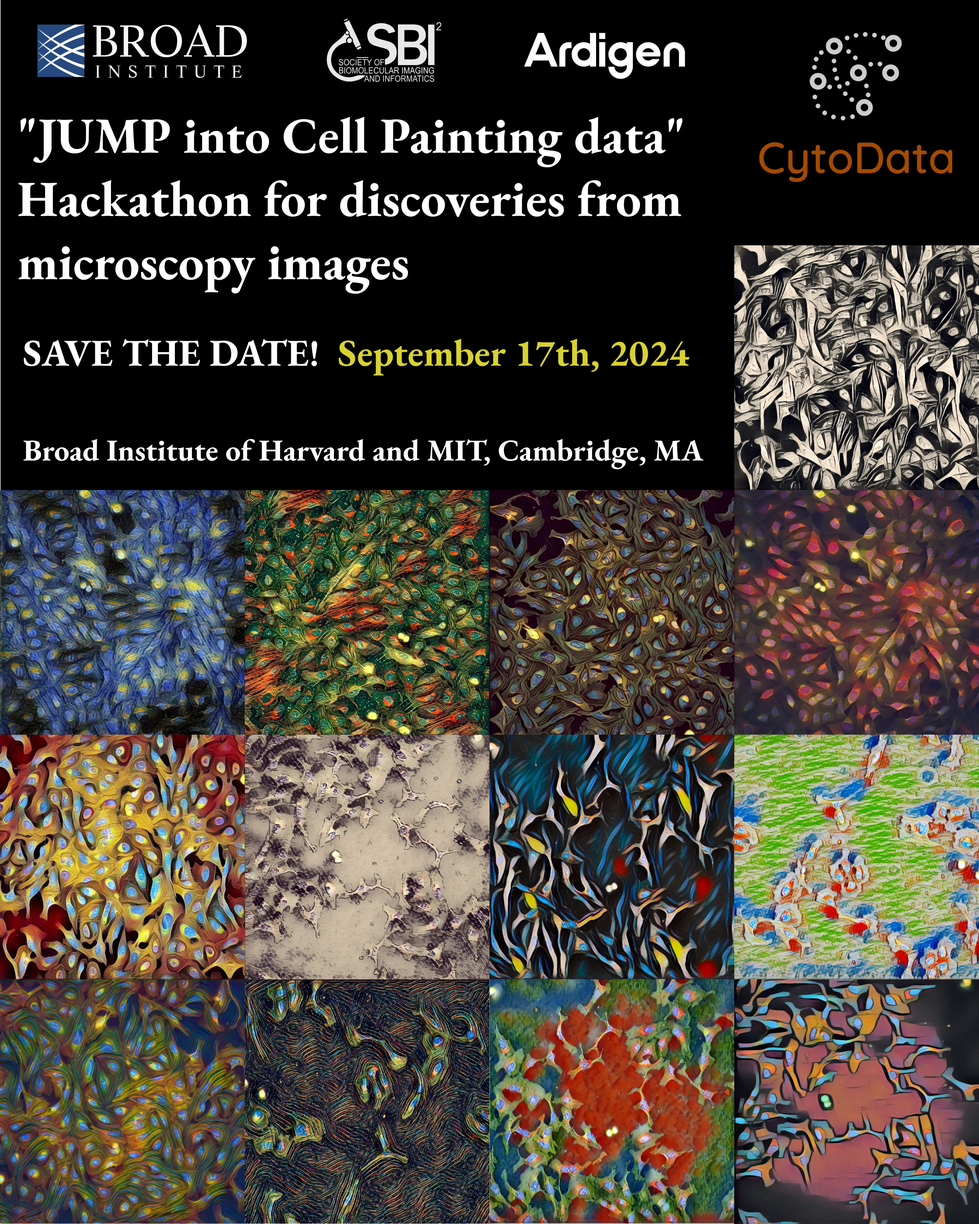
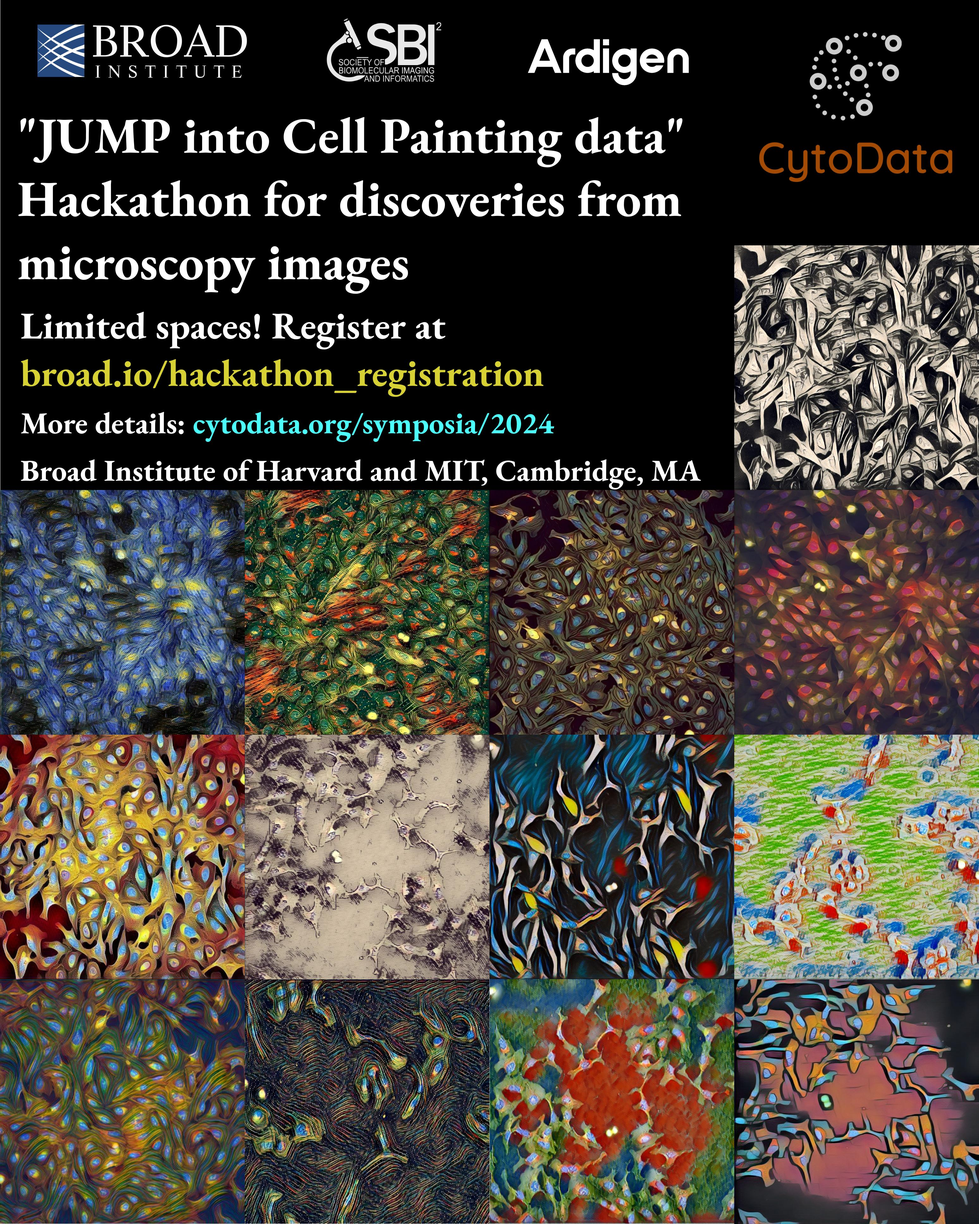
deploy: 15c25c7fb3ce19ccc979b36dba25a626d7c5b940

Changed region(s): [[0.0, 0.25, 0.7132, 0.4062], [0.5271, 0.0312, 0.7132, 0.0938]]

diff --git a/symposia/2024/index.html b/symposia/2024/index.html
@@ -7,7 +7,7 @@
 <meta name="robots" content="index, follow">
 <title>CytoData 2024 - by the CytoData board in collaboration with SBI2 | CytoData Society</title>
 <meta name="keywords" content="">
-<meta name="description" content="Thrilled to announce that this year, CytoData is joining forces with SBI2! You can take part in the traditional CytoData Hackathon on September 17, and join from September 18-20 for an event supercharged in spatial and morphological profiling. Please save the date!">
+<meta name="description" content="CytoData in 2024 We are thrilled to announce that this year, CytoData is joining forces with SBI2! You can take part in the traditional CytoData Hackathon on September 17 (see details below), and join us from September 18-20 for an event supercharged in spatial and morphological profiling. The CytoData board is organizing a colloquium on &ldquo;Image-based profiling of biological systems across scales and modalities&rdquo; on September 18 and the SBI2 society prepared an exciting line-up of workshops and speakers tailored to the bioimaging and analysis community.">
 <meta name="author" content="">
 <link rel="canonical" href="https://www.cytodata.org/symposia/2024/">
 <link crossorigin="anonymous" href="/assets/css/stylesheet.ffe86df2f34692c7a242e28e6511624b62a23eb4d353cf45bce6dad4fa5fe28d.css" integrity="sha256-/&#43;ht8vNGkseiQuKOZRFiS2KiPrTTU89FvOba1Ppf4o0=" rel="preload stylesheet" as="style">
@@ -59,7 +59,7 @@
   
 
 <meta property="og:title" content="CytoData 2024 - by the CytoData board in collaboration with SBI2" />
-<meta property="og:description" content="Thrilled to announce that this year, CytoData is joining forces with SBI2! You can take part in the traditional CytoData Hackathon on September 17, and join from September 18-20 for an event supercharged in spatial and morphological profiling. Please save the date!" />
+<meta property="og:description" content="CytoData in 2024 We are thrilled to announce that this year, CytoData is joining forces with SBI2! You can take part in the traditional CytoData Hackathon on September 17 (see details below), and join us from September 18-20 for an event supercharged in spatial and morphological profiling. The CytoData board is organizing a colloquium on &ldquo;Image-based profiling of biological systems across scales and modalities&rdquo; on September 18 and the SBI2 society prepared an exciting line-up of workshops and speakers tailored to the bioimaging and analysis community." />
 <meta property="og:type" content="article" />
 <meta property="og:url" content="https://www.cytodata.org/symposia/2024/" />
 <meta property="og:image" content="https://www.cytodata.org/symposia/2024/main_files/SBI2.png" /><meta property="article:section" content="symposia" />
@@ -69,7 +69,7 @@
 <meta name="twitter:card" content="summary_large_image" />
 <meta name="twitter:image" content="https://www.cytodata.org/symposia/2024/main_files/SBI2.png" />
 <meta name="twitter:title" content="CytoData 2024 - by the CytoData board in collaboration with SBI2"/>
-<meta name="twitter:description" content="Thrilled to announce that this year, CytoData is joining forces with SBI2! You can take part in the traditional CytoData Hackathon on September 17, and join from September 18-20 for an event supercharged in spatial and morphological profiling. Please save the date!"/>
+<meta name="twitter:description" content="CytoData in 2024 We are thrilled to announce that this year, CytoData is joining forces with SBI2! You can take part in the traditional CytoData Hackathon on September 17 (see details below), and join us from September 18-20 for an event supercharged in spatial and morphological profiling. The CytoData board is organizing a colloquium on &ldquo;Image-based profiling of biological systems across scales and modalities&rdquo; on September 18 and the SBI2 society prepared an exciting line-up of workshops and speakers tailored to the bioimaging and analysis community."/>
 
 
 <script type="application/ld+json">
@@ -98,12 +98,12 @@
   "@type": "BlogPosting",
   "headline": "CytoData 2024 - by the CytoData board in collaboration with SBI2",
   "name": "CytoData 2024 - by the CytoData board in collaboration with SBI2",
-  "description": "Thrilled to announce that this year, CytoData is joining forces with SBI2! You can take part in the traditional CytoData Hackathon on September 17, and join from September 18-20 for an event supercharged in spatial and morphological profiling. Please save the date!",
+  "description": "CytoData in 2024 We are thrilled to announce that this year, CytoData is joining forces with SBI2! You can take part in the traditional CytoData Hackathon on September 17 (see details below), and join us from September 18-20 for an event supercharged in spatial and morphological profiling. The CytoData board is organizing a colloquium on \u0026ldquo;Image-based profiling of biological systems across scales and modalities\u0026rdquo; on September 18 and the SBI2 society prepared an exciting line-up of workshops and speakers tailored to the bioimaging and analysis community.",
   "keywords": [
     
   ],
-  "articleBody": "Thrilled to announce that this year, CytoData is joining forces with SBI2! You can take part in the traditional CytoData Hackathon on September 17, and join from September 18-20 for an event supercharged in spatial and morphological profiling. Please save the date!\n",
-  "wordCount" : "42",
+  "articleBody": "CytoData in 2024 We are thrilled to announce that this year, CytoData is joining forces with SBI2! You can take part in the traditional CytoData Hackathon on September 17 (see details below), and join us from September 18-20 for an event supercharged in spatial and morphological profiling. The CytoData board is organizing a colloquium on “Image-based profiling of biological systems across scales and modalities” on September 18 and the SBI2 society prepared an exciting line-up of workshops and speakers tailored to the bioimaging and analysis community. Registrations and abstract submissions are open.\nCytoData 2024 Hackathon at the Broad Institute Quick overview Registration link Agenda Prizes FAQ What is JUMP? Can I access the data beforehand? Are teams assembled there or can I organize my own team? Do you offer fee waivers? Can I get in touch with other participants and form a team beforehand? More questions? Resources for participants How to get to the Broad Institute? Are there places to eat around? Whereabouts in the building will the event take place? Quick overview The main goal of this event is to bring together biologists and computer scientists to use Morphological Profiling data to gain novel biological insights. You can bring your own question to the event or get together with experts and come up with one there. The idea is for everyone to have fun, learn how to use morphological data to ask/answer biological questions and meet other scientists with similar interests.\nWe strongly encourage biologists to apply, regardless of their expertise in computational methods or their familiarity with the field of morphological profiling.\nThis event is part of the SBI2+Cytodata events.\nRegistration link If you want tho register follow this link. The cost of registration is 20 USD, which aims to cover catering needs.\nDue to space constraints, the number of tickets is limited.\nAgenda The Hackathon will occur on September 17th, 2024 at The Broad Institute’s Merkin Building: 415 Main St, Cambridge, MA 02142.\nTime Agenda 08:30-09:00 Registration and light breakfast 09:00-10:00 Introduction 10:00-12:00 First session 12:00-13:00 Lunch 13:00-15:40 Second session 15:40-16:00 Coffee break 16:00-17:30 Third session 17:30-18:00 Wrap up (5 min) presentations and awards Prizes We will offer two different tracks:\nBest new biological story, or, how can we use JUMP to gain novel biological insight? Best new tool/method, or, how to make JUMP data more accessible/develop a novel processing technique? For each track there will be a 500 USD prize in giftcards for the winning team.\nFAQ What is JUMP? JUMP stands for Joint Undertaking in Morphological Profiling. You can read more about the project here.\nCan I access the data beforehand? The data is available right now, and you can see different ways to explore it here.\nAre teams assembled there or can I organize my own team? Both options are valid! The registration form contains a section to indicate whether you come with a team or not.\nDo you offer fee waivers? We are unable to do so this time, but keep tabs on future online events and workshops.\nCan I get in touch with other participants and form a team beforehand? Yes! The registration form allows you to give consent to share your name, email and interests with the other participants before the event.\nMore questions? Feel free to send an email to amunozgo@broadinstitute.org.\nResources for participants This section will be updated to concentrate details relevant to participants during the Hackathon.\nHow to get to the Broad Institute? See the official getting here webpage.\nAre there places to eat around? We will provide lunch and a light breakfast, but there are plenty of cafes and restaurants in the area.\nWhereabouts in the building will the event take place? The start and lunch events will occur on the sixth floor section that connects 415 Main St. and 75 Ames (the room is called Serengeti). For the hacking sessions people will be split between Serengeti and other locations in the M1 floor (Mezzanine) There will be Broadies from the Imaging Platform who will show you the two floors and bring you to your floors and give you further indications.\n",
+  "wordCount" : "684",
   "inLanguage": "en",
   "image":"https://www.cytodata.org/symposia/2024/main_files/SBI2.png","datePublished": "1970-01-01T00:00:00Z",
   "dateModified": "2024-09-17T00:00:00Z",
@@ -164,6 +164,11 @@
         </div>
         <ul id="menu">
             <li>
+                <a href="https://www.cytodata.org/symposia/2024/" title="Cytodata 2024">
+                    <span class="active">Cytodata 2024</span>
+                </a>
+            </li>
+            <li>
                 <a href="https://www.cytodata.org/symposia" title="Symposia">
                     <span>Symposia</span>
                 </a>
@@ -200,16 +205,161 @@
     <h1 class="post-title entry-hint-parent">
       CytoData 2024 - by the CytoData board in collaboration with SBI2
     </h1>
-    <div class="post-meta"><span title='2024-09-17 00:00:00 +0000 UTC'>September 17, 2024</span>&nbsp;·&nbsp;42 words
+    <div class="post-meta"><span title='2024-09-17 00:00:00 +0000 UTC'>September 17, 2024</span>&nbsp;·&nbsp;684 words
 
 </div>
   </header> 
 <figure class="entry-cover"><img loading="eager" src="https://www.cytodata.org/main_files/SBI2.png" alt="">
         
 </figure>
-  <div class="post-content"><p>Thrilled to announce that this year, CytoData is joining forces with <a href="https://sbi2.org/">SBI2</a>! You can take part in the traditional CytoData Hackathon on September 17, and join from September 18-20 for an event supercharged in spatial and morphological profiling. Please save the date!</p>
+  <div class="post-content"><h1 id="cytodata-in-2024">CytoData in 2024<a hidden class="anchor" aria-hidden="true" href="#cytodata-in-2024">#</a></h1>
+<p>We are thrilled to announce that this year, CytoData is joining forces with <a href="https://sbi2.org/">SBI2</a>! You can take part in the traditional CytoData Hackathon on September 17 (see <a href="#cytodata-2024-hackathon-at-the-broad-institute">details below</a>), and join us from September 18-20 for an event supercharged in spatial and morphological profiling. The CytoData board is organizing a colloquium on &ldquo;Image-based profiling of biological systems across scales and modalities&rdquo; on September 18 and the SBI2 society prepared an exciting line-up of workshops and speakers tailored to the bioimaging and analysis community. <a href="https://sbi2.org/conference/#registration">Registrations and abstract submissions are open.</a></p>
+<h1 id="cytodata-2024-hackathon-at-the-broad-institute">CytoData 2024 Hackathon at the Broad Institute<a hidden class="anchor" aria-hidden="true" href="#cytodata-2024-hackathon-at-the-broad-institute">#</a></h1>
+<ol>
+<li><a href="#quick-overview">Quick overview</a></li>
+<li><a href="#registration-link">Registration link</a></li>
+<li><a href="#agenda">Agenda</a></li>
+<li><a href="#prizes">Prizes</a></li>
+<li><a href="#faq">FAQ</a>
+<ol>
+<li><a href="#what-is-jump">What is JUMP?</a></li>
+<li><a href="#can-i-access-the-data-beforehand">Can I access the data beforehand?</a></li>
+<li><a href="#are-teams-assembled-there-or-can-i-organize-my-own-team">Are teams assembled there or can I organize my own team?</a></li>
+<li><a href="#do-you-offer-fee-waivers">Do you offer fee waivers?</a></li>
+<li><a href="#can-i-get-in-touch-with-other-participants-and-form-a-team-beforehand">Can I get in touch with other participants and form a team beforehand?</a></li>
+<li><a href="#more-questions">More questions?</a></li>
+</ol>
+</li>
+<li><a href="#resources-for-participants">Resources for participants</a>
+<ol>
+<li><a href="#how-to-get-to-the-broad-institute">How to get to the Broad Institute?</a></li>
+<li><a href="#are-there-places-to-eat-around">Are there places to eat around?</a></li>
+<li><a href="#whereabouts-in-the-building-will-the-event-take-place">Whereabouts in the building will the event take place?</a></li>
+</ol>
+</li>
+</ol>
+<p><!-- raw HTML omitted --><!-- raw HTML omitted --></p>
+<h2 id="quick-overview">Quick overview<a hidden class="anchor" aria-hidden="true" href="#quick-overview">#</a></h2>
+<p>The main goal of this event is to bring together biologists and computer scientists to use <a href="https://www.broadinstitute.org/imaging/morphological-profiling">Morphological Profiling</a> data to gain novel biological insights. You can bring your own question to the event or get together with experts and come up with one there. The idea is for everyone to have fun, learn how to use morphological data to ask/answer biological questions and meet other scientists with similar interests.</p>
+<p>We strongly encourage biologists to apply, regardless of their expertise in computational methods or their familiarity with the field of morphological profiling.</p>
+<p>This event is part of the <a href="https://sbi2.org/conference/">SBI2</a>+<a href="https://www.cytodata.org/symposia/2024/">Cytodata</a> events.</p>
 <p><img loading="lazy" src="../../main_files/cytodata2024poster.jpg" alt="CytoData 2024 Poster"  />
 </p>
+<p><!-- raw HTML omitted --><!-- raw HTML omitted --></p>
+<h2 id="registration-link">Registration link<a hidden class="anchor" aria-hidden="true" href="#registration-link">#</a></h2>
+<p>If you want tho register <a href="https://broad.io/hackathon_registration">follow this link</a>. The cost of registration is 20 USD, which aims to cover catering needs.<br>
+Due to space constraints, the number of tickets is limited.</p>
+<p><!-- raw HTML omitted --><!-- raw HTML omitted --></p>
+<h2 id="agenda">Agenda<a hidden class="anchor" aria-hidden="true" href="#agenda">#</a></h2>
+<p>The Hackathon will occur on September 17th, 2024 at The Broad Institute’s Merkin Building: 415 Main St, Cambridge, MA 02142.</p>
+
+<table border="2" cellspacing="0" cellpadding="6" rules="groups" frame="hsides">
+
+
+<colgroup>
+<col  class="org-right" />
+
+<col  class="org-left" />
+</colgroup>
+<thead>
+<tr>
+<th scope="col" class="org-right">Time</th>
+<th scope="col" class="org-left">Agenda</th>
+</tr>
+</thead>
+
+<tbody>
+<tr>
+<td class="org-right">08:30-09:00</td>
+<td class="org-left">Registration and light breakfast</td>
+</tr>
+
+
+<tr>
+<td class="org-right">09:00-10:00</td>
+<td class="org-left">Introduction</td>
+</tr>
+
+
+<tr>
+<td class="org-right">10:00-12:00</td>
+<td class="org-left">First session</td>
+</tr>
+
+
+<tr>
+<td class="org-right">12:00-13:00</td>
+<td class="org-left">Lunch</td>
+</tr>
+
+
+<tr>
+<td class="org-right">13:00-15:40</td>
+<td class="org-left">Second session</td>
+</tr>
+
+
+<tr>
+<td class="org-right">15:40-16:00</td>
+<td class="org-left">Coffee break</td>
+</tr>
+
+
+<tr>
+<td class="org-right">16:00-17:30</td>
+<td class="org-left">Third session</td>
+</tr>
+
+
+<tr>
+<td class="org-right">17:30-18:00</td>
+<td class="org-left">Wrap up (5 min) presentations and awards</td>
+</tr>
+</tbody>
+</table>
+
+<p><!-- raw HTML omitted --><!-- raw HTML omitted --></p>
+<h2 id="prizes">Prizes<a hidden class="anchor" aria-hidden="true" href="#prizes">#</a></h2>
+<p>We will offer two different tracks:</p>
+<ul>
+<li>Best new biological story, or, how can we use JUMP to gain novel biological insight?</li>
+<li>Best new tool/method, or, how to make JUMP data more accessible/develop a novel processing technique?</li>
+</ul>
+<p>For each track there will be a 500 USD prize in giftcards for the winning team.</p>
+<p><!-- raw HTML omitted --><!-- raw HTML omitted --></p>
+<h2 id="faq">FAQ<a hidden class="anchor" aria-hidden="true" href="#faq">#</a></h2>
+<p><!-- raw HTML omitted --><!-- raw HTML omitted --></p>
+<h3 id="what-is-jump">What is JUMP?<a hidden class="anchor" aria-hidden="true" href="#what-is-jump">#</a></h3>
+<p>JUMP stands for Joint Undertaking in Morphological Profiling. You can read more about the project <a href="https://jump-cellpainting.broadinstitute.org/">here</a>.</p>
+<p><!-- raw HTML omitted --><!-- raw HTML omitted --></p>
+<h3 id="can-i-access-the-data-beforehand">Can I access the data beforehand?<a hidden class="anchor" aria-hidden="true" href="#can-i-access-the-data-beforehand">#</a></h3>
+<p>The data is available right now, and you can see different ways to explore it <a href="https://broad.io/jump">here</a>.</p>
+<p><!-- raw HTML omitted --><!-- raw HTML omitted --></p>
+<h3 id="are-teams-assembled-there-or-can-i-organize-my-own-team">Are teams assembled there or can I organize my own team?<a hidden class="anchor" aria-hidden="true" href="#are-teams-assembled-there-or-can-i-organize-my-own-team">#</a></h3>
+<p>Both options are valid! The registration form contains a section to indicate whether you come with a team or not.</p>
+<p><!-- raw HTML omitted --><!-- raw HTML omitted --></p>
+<h3 id="do-you-offer-fee-waivers">Do you offer fee waivers?<a hidden class="anchor" aria-hidden="true" href="#do-you-offer-fee-waivers">#</a></h3>
+<p>We are unable to do so this time, but keep tabs on future online events and workshops.</p>
+<p><!-- raw HTML omitted --><!-- raw HTML omitted --></p>
+<h3 id="can-i-get-in-touch-with-other-participants-and-form-a-team-beforehand">Can I get in touch with other participants and form a team beforehand?<a hidden class="anchor" aria-hidden="true" href="#can-i-get-in-touch-with-other-participants-and-form-a-team-beforehand">#</a></h3>
+<p>Yes! The registration form allows you to give consent to share your name, email and interests with the other participants before the event.</p>
+<p><!-- raw HTML omitted --><!-- raw HTML omitted --></p>
+<h3 id="more-questions">More questions?<a hidden class="anchor" aria-hidden="true" href="#more-questions">#</a></h3>
+<p>Feel free to send an email to <a href="mailto:amunozgo@broadinstitute.org">amunozgo@broadinstitute.org</a>.</p>
+<p><!-- raw HTML omitted --><!-- raw HTML omitted --></p>
+<h2 id="resources-for-participants">Resources for participants<a hidden class="anchor" aria-hidden="true" href="#resources-for-participants">#</a></h2>
+<p>This section will be updated to concentrate details relevant to participants during the Hackathon.</p>
+<p><!-- raw HTML omitted --><!-- raw HTML omitted --></p>
+<h3 id="how-to-get-to-the-broad-institute">How to get to the Broad Institute?<a hidden class="anchor" aria-hidden="true" href="#how-to-get-to-the-broad-institute">#</a></h3>
+<p>See the official <a href="https://www.broadinstitute.org/getting-here">getting here</a> webpage.</p>
+<p><!-- raw HTML omitted --><!-- raw HTML omitted --></p>
+<h3 id="are-there-places-to-eat-around">Are there places to eat around?<a hidden class="anchor" aria-hidden="true" href="#are-there-places-to-eat-around">#</a></h3>
+<p>We will provide lunch and a light breakfast, but there are plenty of cafes and restaurants in the area.</p>
+<p><!-- raw HTML omitted --><!-- raw HTML omitted --></p>
+<h3 id="whereabouts-in-the-building-will-the-event-take-place">Whereabouts in the building will the event take place?<a hidden class="anchor" aria-hidden="true" href="#whereabouts-in-the-building-will-the-event-take-place">#</a></h3>
+<p>The start and lunch events will occur on the sixth floor section that connects 415 Main St. and 75 Ames (the room is called Serengeti).
+For the hacking sessions people will be split between Serengeti and other locations in the M1 floor (Mezzanine)
+There will be Broadies from the Imaging Platform who will show you the two floors and bring you to your floors and give you further indications.</p>
 
 
   </div>

diff --git a/symposia/index.html b/symposia/index.html
@@ -126,6 +126,11 @@
         </div>
         <ul id="menu">
             <li>
+                <a href="https://www.cytodata.org/symposia/2024/" title="Cytodata 2024">
+                    <span>Cytodata 2024</span>
+                </a>
+            </li>
+            <li>
                 <a href="https://www.cytodata.org/symposia" title="Symposia">
                     <span class="active">Symposia</span>
                 </a>
@@ -174,9 +179,9 @@
     <p class="entry-tagline"></p>
   </header>
   <div class="entry-content">
-    <p>Thrilled to announce that this year, CytoData is joining forces with SBI2! You can take part in the traditional CytoData Hackathon on September 17, and join from September 18-20 for an event supercharged in spatial and morphological profiling. Please save the date!</p>
+    <p>CytoData in 2024 We are thrilled to announce that this year, CytoData is joining forces with SBI2! You can take part in the traditional CytoData Hackathon on September 17 (see details below), and join us from September 18-20 for an event supercharged in spatial and morphological profiling. The CytoData board is organizing a colloquium on “Image-based profiling of biological systems across scales and modalities” on September 18 and the SBI2 society prepared an exciting line-up of workshops and speakers tailored to the bioimaging and analysis community....</p>
   </div>
-  <footer class="entry-footer"><span title='2024-09-17 00:00:00 +0000 UTC'>September 17, 2024</span>&nbsp;·&nbsp;42 words</footer>
+  <footer class="entry-footer"><span title='2024-09-17 00:00:00 +0000 UTC'>September 17, 2024</span>&nbsp;·&nbsp;684 words</footer>
   <a class="entry-link" aria-label="post link to CytoData 2024 - by the CytoData board in collaboration with SBI2" href="https://www.cytodata.org/symposia/2024/"></a>
 </article>
 

diff --git a/board/alexkalinin/index.html b/board/alexkalinin/index.html
@@ -167,6 +167,11 @@ Responsibilities Design strategy for communications (frequency of announcements,
         </div>
         <ul id="menu">
             <li>
+                <a href="https://www.cytodata.org/symposia/2024/" title="Cytodata 2024">
+                    <span>Cytodata 2024</span>
+                </a>
+            </li>
+            <li>
                 <a href="https://www.cytodata.org/symposia" title="Symposia">
                     <span>Symposia</span>
                 </a>

diff --git a/board/index.html b/board/index.html
@@ -127,6 +127,11 @@ Election process Vice President Should be a current board member. The candidate 
         </div>
         <ul id="menu">
             <li>
+                <a href="https://www.cytodata.org/symposia/2024/" title="Cytodata 2024">
+                    <span>Cytodata 2024</span>
+                </a>
+            </li>
+            <li>
                 <a href="https://www.cytodata.org/symposia" title="Symposia">
                     <span>Symposia</span>
                 </a>

diff --git a/board/johnarevalo/index.html b/board/johnarevalo/index.html
@@ -167,6 +167,11 @@ Responsibilities Contribute to shaping the society&rsquo;s mission and initiativ
         </div>
         <ul id="menu">
             <li>
+                <a href="https://www.cytodata.org/symposia/2024/" title="Cytodata 2024">
+                    <span>Cytodata 2024</span>
+                </a>
+            </li>
+            <li>
                 <a href="https://www.cytodata.org/symposia" title="Symposia">
                     <span>Symposia</span>
                 </a>

diff --git a/board/lassipaavolainen/index.html b/board/lassipaavolainen/index.html
@@ -167,6 +167,11 @@ Responsibilities Organize the CytoData2023 event and keep documentation of CytoD
         </div>
         <ul id="menu">
             <li>
+                <a href="https://www.cytodata.org/symposia/2024/" title="Cytodata 2024">
+                    <span>Cytodata 2024</span>
+                </a>
+            </li>
+            <li>
                 <a href="https://www.cytodata.org/symposia" title="Symposia">
                     <span>Symposia</span>
                 </a>

diff --git a/board/louisemorlot/index.html b/board/louisemorlot/index.html
@@ -167,6 +167,11 @@ Responsibilities Contribute to shaping the society&rsquo;s mission and initiativ
         </div>
         <ul id="menu">
             <li>
+                <a href="https://www.cytodata.org/symposia/2024/" title="Cytodata 2024">
+                    <span>Cytodata 2024</span>
+                </a>
+            </li>
+            <li>
                 <a href="https://www.cytodata.org/symposia" title="Symposia">
                     <span>Symposia</span>
                 </a>

diff --git a/board/page/2/index.html b/board/page/2/index.html
@@ -127,6 +127,11 @@ Election process Vice President Should be a current board member. The candidate 
         </div>
         <ul id="menu">
             <li>
+                <a href="https://www.cytodata.org/symposia/2024/" title="Cytodata 2024">
+                    <span>Cytodata 2024</span>
+                </a>
+            </li>
+            <li>
                 <a href="https://www.cytodata.org/symposia" title="Symposia">
                     <span>Symposia</span>
                 </a>

diff --git a/board/paulaamarinzapata/index.html b/board/paulaamarinzapata/index.html
@@ -167,6 +167,11 @@ Responsibilities Design strategy for communications (frequency of announcements,
         </div>
         <ul id="menu">
             <li>
+                <a href="https://www.cytodata.org/symposia/2024/" title="Cytodata 2024">
+                    <span>Cytodata 2024</span>
+                </a>
+            </li>
+            <li>
                 <a href="https://www.cytodata.org/symposia" title="Symposia">
                     <span>Symposia</span>
                 </a>

diff --git a/board/ziqikang/index.html b/board/ziqikang/index.html
@@ -167,6 +167,11 @@ Responsibilities Contribute to shaping the society&rsquo;s mission and initiativ
         </div>
         <ul id="menu">
             <li>
+                <a href="https://www.cytodata.org/symposia/2024/" title="Cytodata 2024">
+                    <span>Cytodata 2024</span>
+                </a>
+            </li>
+            <li>
                 <a href="https://www.cytodata.org/symposia" title="Symposia">
                     <span>Symposia</span>
                 </a>

diff --git a/contact/index.html b/contact/index.html
@@ -127,6 +127,11 @@ The CytoData Society has brought together a community of scientists from academi
         </div>
         <ul id="menu">
             <li>
+                <a href="https://www.cytodata.org/symposia/2024/" title="Cytodata 2024">
+                    <span>Cytodata 2024</span>
+                </a>
+            </li>
+            <li>
                 <a href="https://www.cytodata.org/symposia" title="Symposia">
                     <span>Symposia</span>
                 </a>

diff --git a/resources/index.html b/resources/index.html
@@ -127,6 +127,11 @@ Getting started with morphological profile analyses Are you interested in analyz
         </div>
         <ul id="menu">
             <li>
+                <a href="https://www.cytodata.org/symposia/2024/" title="Cytodata 2024">
+                    <span>Cytodata 2024</span>
+                </a>
+            </li>
+            <li>
                 <a href="https://www.cytodata.org/symposia" title="Symposia">
                     <span>Symposia</span>
                 </a>
